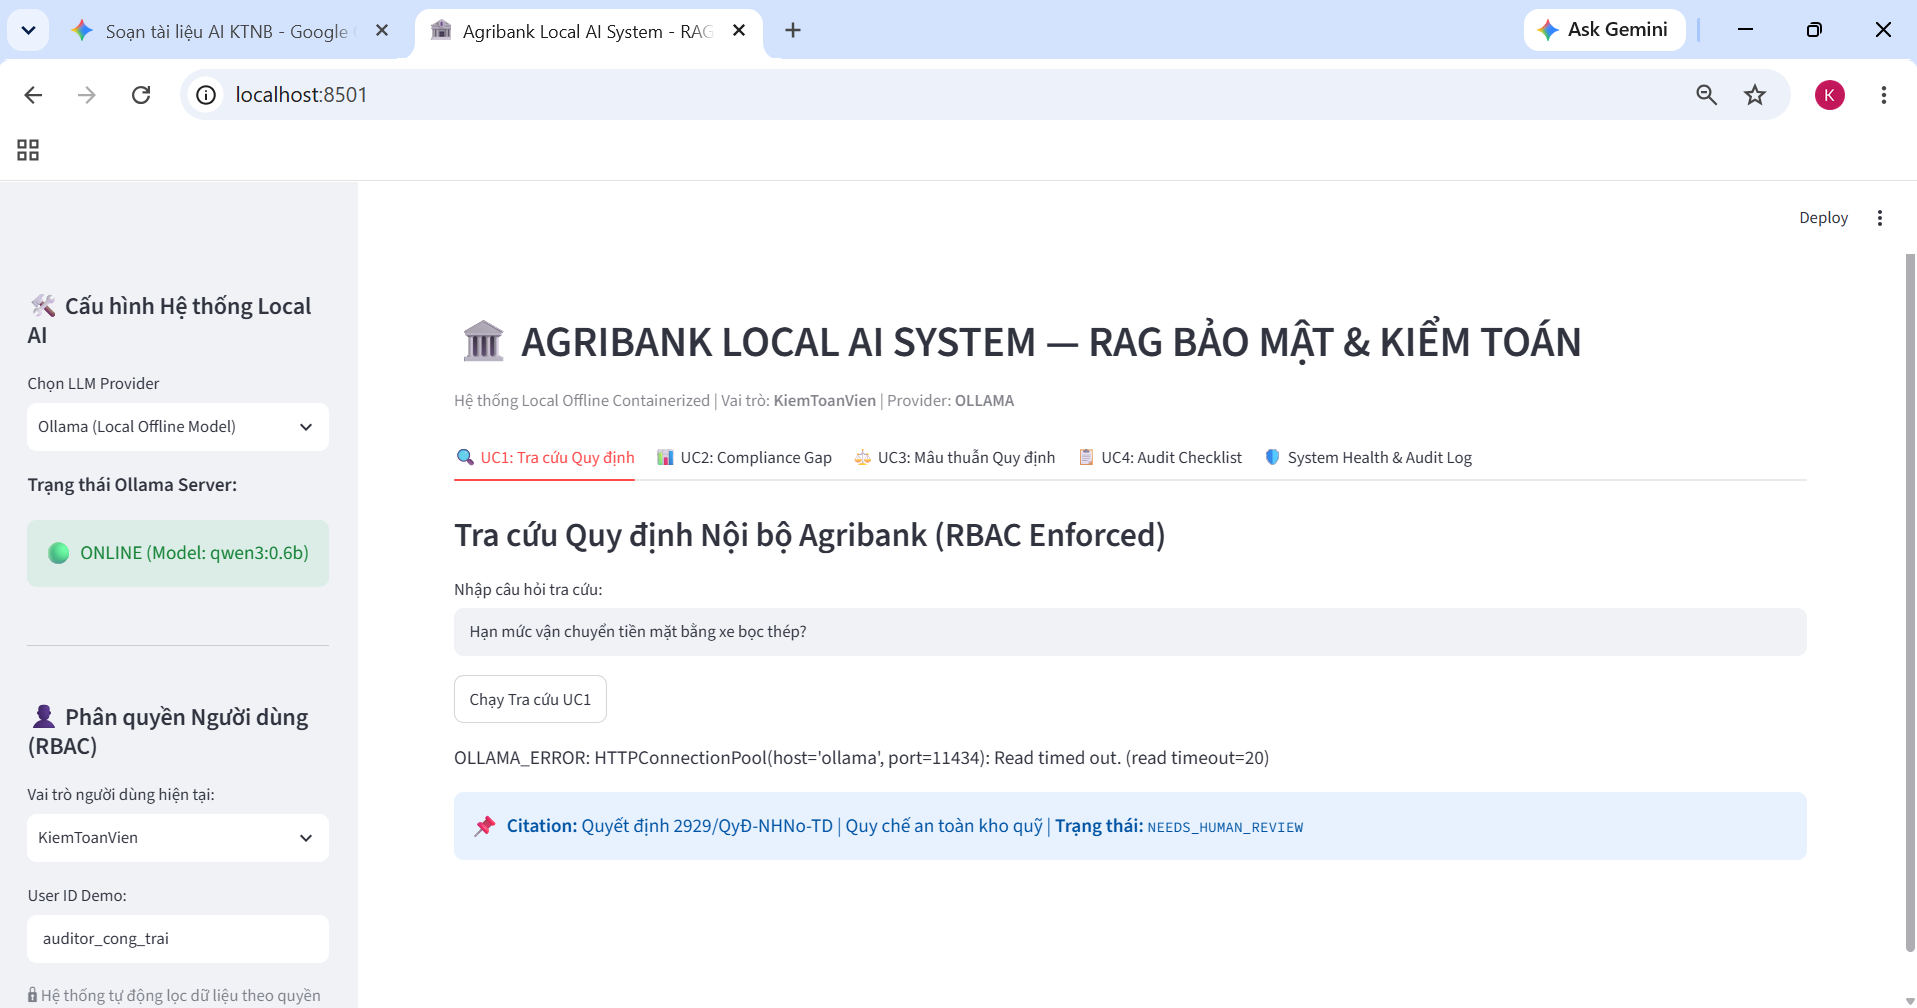
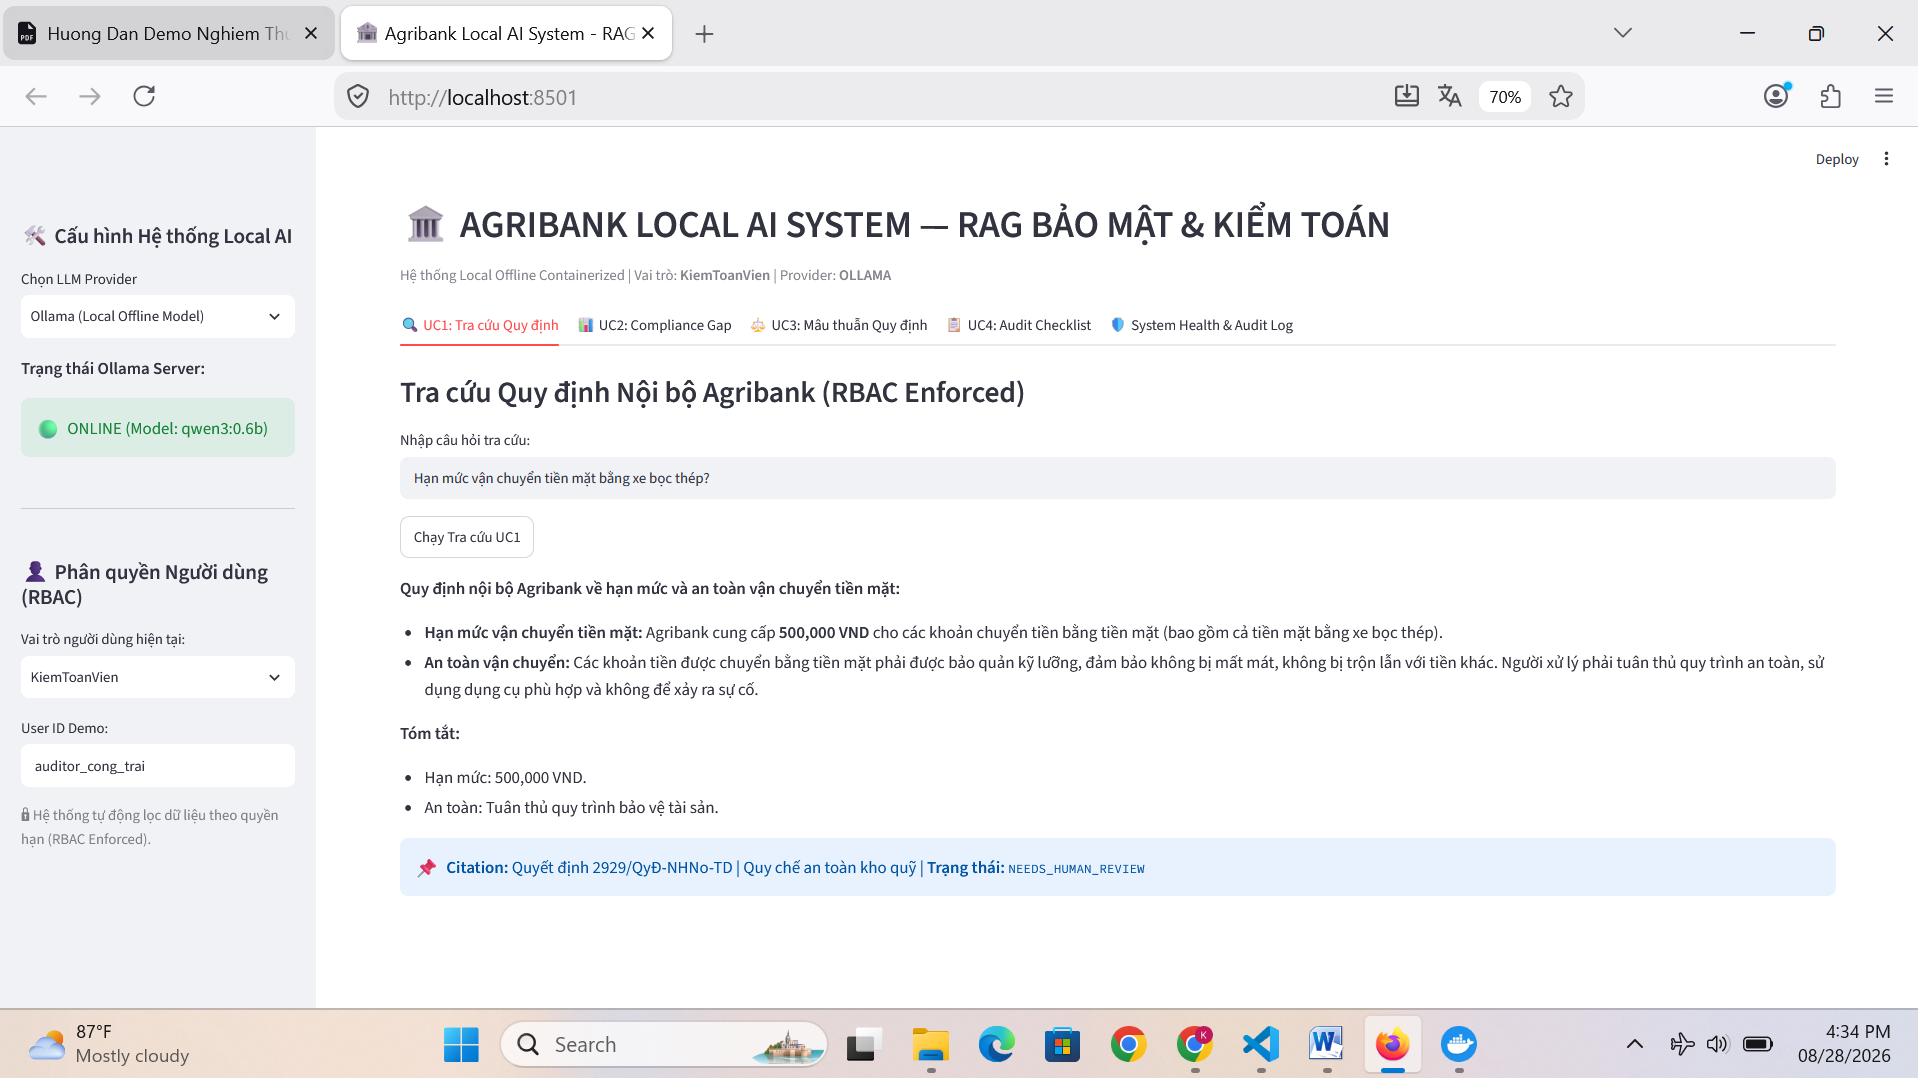
Cap nhat hinh anh thuc hanh va toi uu prompt tieng Viet Buoi 19

diff --git a/rag_advanced/buoi_19/app.py b/rag_advanced/buoi_19/app.py
@@ -69,10 +69,13 @@ with tab1:
     q1 = st.text_input("Nhập câu hỏi tra cứu:", value="Hạn mức vận chuyển tiền mặt bằng xe bọc thép?")
     if st.button("Chạy Tra cứu UC1"):
         prompt_uc1 = f"""
-        Bạn là cán bộ kiểm toán Agribank. Trả lời câu hỏi sau dựa trên quy định nội bộ:
-        Câu hỏi: {q1}
-        Vai trò người hỏi: {role}
-        Yêu cầu: Trích dẫn Điều/Khoản chính xác, nêu rõ mức độ bảo mật.
+        BẠN LÀ TRỢ LÝ KIỂM TOÁN NỘI BỘ AGRIBANK.
+        QUY TẮC BẮT BUỘC: TRẢ LỜI HOÀN TOÀN BẰNG TIẾNG VIỆT, KHÔNG DÙNG TIẾNG ANH.
+
+        Câu hỏi tra cứu: {q1}
+        Vai trò người dùng: {role}
+        
+        Hãy tóm tắt quy định nội bộ Agribank về hạn mức và an toàn vận chuyển tiền mặt theo các văn bản hiện hành. Trình bày ngắn gọn, rõ ràng bằng tiếng Việt.
         """
         with st.spinner("Đang tra cứu cơ sở tri thức cục bộ..."):
             ans1 = client.generate(prompt_uc1)
@@ -87,7 +90,15 @@ with tab2:
         value="Chi nhánh thực hiện giải ngân cho vay phục vụ nông nghiệp nhưng lưu trữ chứng từ giải ngân sau 45 ngày làm việc."
     )
     if st.button("Phân tích Khoảng trống Tuân thủ"):
-        prompt_uc2 = f"Đối soát quy trình sau với quy định Agribank và chỉ ra điểm chưa tuân thủ (Gap):\n{doc_text}"
+        prompt_uc2 = f"""
+        BẠN LÀ CHUYÊN VIÊN KIỂM SOÁT TUÂN THỦ AGRIBANK.
+        QUY TẮC BẮT BUỘC: TRẢ LỜI HOÀN TOÀN BẰNG TIẾNG VIỆT, KHÔNG DÙNG TIẾNG ANH.
+
+        Đối soát hồ sơ thực tế sau với quy định lưu trữ chứng từ tín dụng của Agribank:
+        Nội dung: {doc_text}
+
+        Hãy chỉ ra các điểm vi phạm, khoảng trống tuân thủ (Gap) và đưa ra kiến nghị khắc phục bằng tiếng Việt.
+        """
         with st.spinner("Mô hình đang phân tích khoảng trống..."):
             ans2 = client.generate(prompt_uc2)
             st.markdown(ans2)
@@ -102,7 +113,16 @@ with tab3:
         van_ban_2 = st.text_area("Văn bản 2 (Quy định mới/Thanh tra):", "Quyết định 2929: Định giá lại Bất động sản tối thiểu 12 tháng/lần.")
     
     if st.button("Phát hiện Xung đột UC3"):
-        prompt_uc3 = f"So sánh 2 văn bản sau và chỉ ra mâu thuẫn quy định:\n1. {van_ban_1}\n2. {van_ban_2}"
+        prompt_uc3 = f"""
+        BẠN LÀ CHUYÊN GIA PHÁP CHẾ & KIỂM TOÁN AGRIBANK.
+        QUY TẮC BẮT BUỘC: TRẢ LỜI HOÀN TOÀN BẰNG TIẾNG VIỆT.
+
+        So sánh 2 văn bản sau và phân tích điểm mâu thuẫn về thời hạn định giá tài sản:
+        1. {van_ban_1}
+        2. {van_ban_2}
+
+        Nêu rõ văn bản nào đang có hiệu lực ưu tiên áp dụng bằng tiếng Việt.
+        """
         with st.spinner("Đang đối soát xung đột..."):
             ans3 = client.generate(prompt_uc3)
             st.warning(ans3)
@@ -115,7 +135,13 @@ with tab4:
         ["Kiểm tra Thẩm định cấp Tín dụng KHDN", "Kiểm tra Tài sản bảo đảm", "Kiểm tra Giải ngân & Giám sát sau vay"]
     )
     if st.button("Sinh Checklist Kiểm toán UC4"):
-        prompt_uc4 = f"Tạo danh sách kiểm tra (Audit Checklist) 5 bước cho nghiệp vụ: {nv} tại Agribank kèm trích dẫn văn bản."
+        prompt_uc4 = f"""
+        BẠN LÀ TRƯỞNG ĐOÀN KIỂM TOÁN NỘI BỘ AGRIBANK.
+        QUY TẮC BẮT BUỘC: TRẢ LỜI HOÀN TOÀN BẰNG TIẾNG VIỆT.
+
+        Hãy lập danh sách kiểm tra (Audit Checklist) gồm 5 bước cụ thể cho phân hệ: {nv} tại Agribank.
+        Định dạng: Gạch đầu dòng rõ ràng từng bước kiểm tra bằng tiếng Việt.
+        """
         with st.spinner("Đang khởi tạo checklist..."):
             ans4 = client.generate(prompt_uc4)
             st.markdown(ans4)
